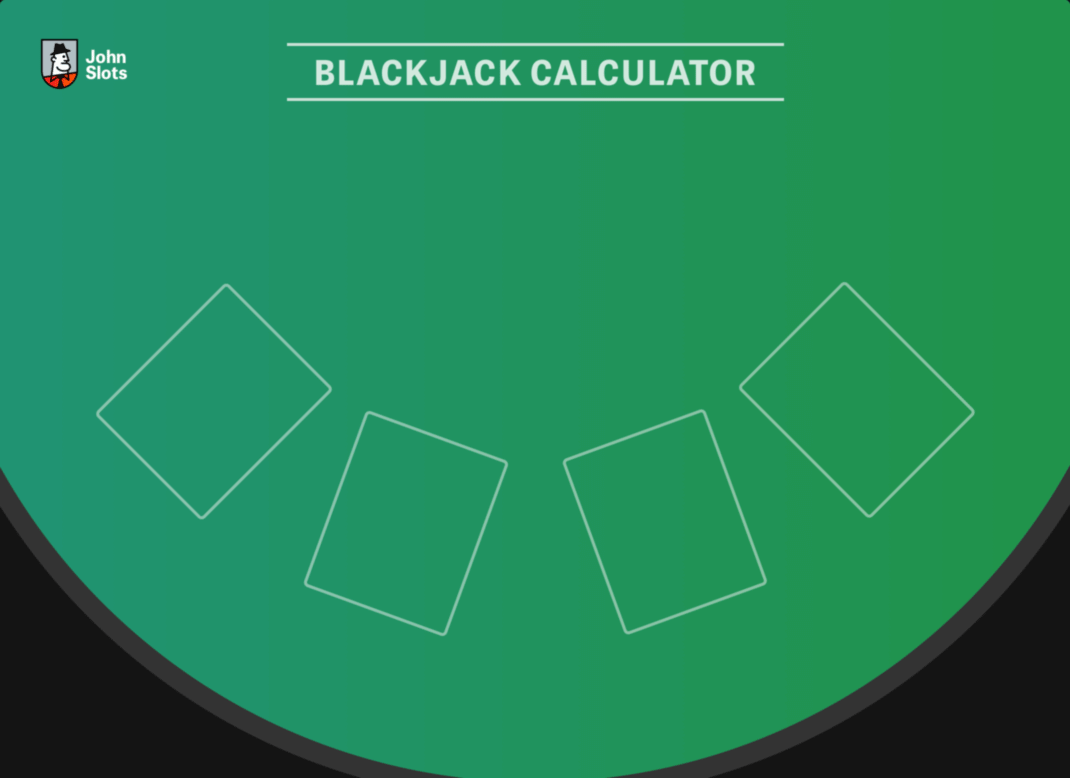
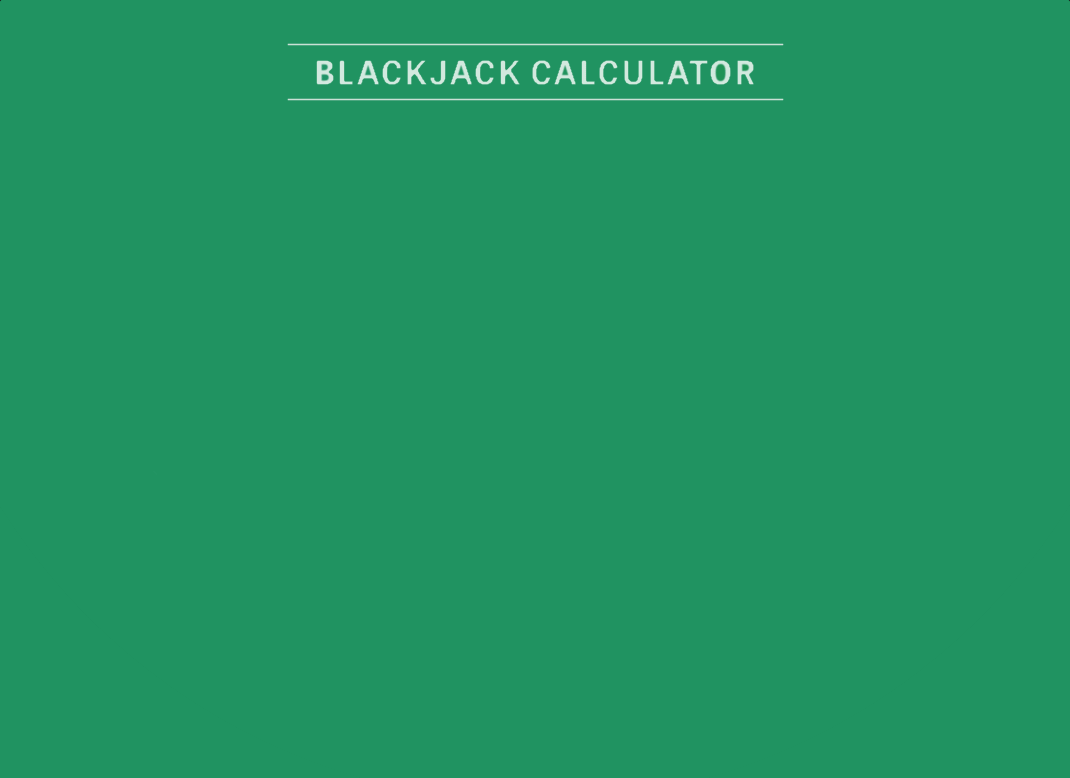
Make TextureManager and Class BlackJack

diff --git a/BlackJack/BlackJack/Game.cpp b/BlackJack/BlackJack/Game.cpp
@@ -1,7 +1,5 @@
 #include"Game.h"
-
-SDL_Texture* tableTex;
-SDL_Rect scrR, destR;
+#include"TextureManager.h"
 
 Game::Game(const char* title, int xpos, int ypos, int width, int height, bool fullscreen)
 {
@@ -21,6 +19,8 @@ Game::Game(const char* title, int xpos, int ypos, int width, int height, bool fu
 			std::cout << "Window created!" << std::endl;
 		}
 
+		
+
 		renderer = SDL_CreateRenderer(window, -1, 0);
 		if (renderer)
 		{
@@ -34,9 +34,8 @@ Game::Game(const char* title, int xpos, int ypos, int width, int height, bool fu
 		isRunning = false;
 	}
 
-	SDL_Surface* tmpSurface = IMG_Load("assets/table.png");
-	tableTex = SDL_CreateTextureFromSurface(renderer, tmpSurface);
-	SDL_FreeSurface(tmpSurface);
+	blackJack = std::make_unique<BlackJack>(renderer);
+	
 }
 Game::~Game() 
 {
@@ -65,17 +64,14 @@ void Game::handleEvents()
 
 void Game::update() 
 {
-	destR.h = 400;
-	destR.w = 600;
+	blackJack->Update();
 }
 
 void Game::render() 
 {
 	SDL_RenderClear(renderer);
 
-	SDL_RenderCopy(renderer, tableTex, NULL, NULL);
+	blackJack->Render();
 
 	SDL_RenderPresent(renderer);
 }
-
-

diff --git a/BlackJack/BlackJack/TextureManager.cpp b/BlackJack/BlackJack/TextureManager.cpp
@@ -1,0 +1,34 @@
+#include"TextureManager.h"
+
+
+SDL_Texture* TextureManager::LoadImage(std::string file, SDL_Renderer* rend)
+{
+	SDL_Surface* loadedImage = nullptr;
+	SDL_Texture* texture = nullptr;
+
+	loadedImage = SDL_LoadBMP(file.c_str());
+	if (loadedImage != nullptr) {
+		texture = SDL_CreateTextureFromSurface(rend, loadedImage);
+		SDL_FreeSurface(loadedImage);
+	}
+	else
+	{
+		loadedImage = IMG_Load(file.c_str());
+
+		if (loadedImage != nullptr)
+		{
+			texture = SDL_CreateTextureFromSurface(rend, loadedImage);
+			SDL_FreeSurface(loadedImage);
+		}
+		else std::cout << SDL_GetError() << std::endl;
+	}
+	return texture;
+}
+
+void TextureManager::ApplySurface(int x, int y, SDL_Texture* tex, SDL_Renderer* rend) {
+	SDL_Rect pos;
+	pos.x = x;
+	pos.y = y;
+	SDL_QueryTexture(tex, NULL, NULL, &pos.w, &pos.h);
+	SDL_RenderCopy(rend, tex, NULL, &pos);
+}

diff --git a/BlackJack/BlackJack/Game.h b/BlackJack/BlackJack/Game.h
@@ -1,10 +1,8 @@
 #ifndef GAME_H
 #define GAME_H
 
-#include<iostream>
-#include"SDL.h"
-#include"SDL_image.h"
-
+#include<memory>
+#include"BlackJack.h"
 
 class Game
 {
@@ -12,6 +10,7 @@ private:
 	bool isRunning;
 	SDL_Window* window;
 	SDL_Renderer* renderer;
+	std::unique_ptr<BlackJack> blackJack;
 
 public:
 	Game(const char* title = "noname", int xpos = SDL_WINDOWPOS_CENTERED, int ypos = SDL_WINDOWPOS_CENTERED, int width = 800, int height = 600, bool fullscreen = false);
@@ -21,7 +20,7 @@ public:
 	void handleEvents();
 	void update();
 	void render();
-	
+
 	bool running() { return isRunning; }
 };
 

diff --git a/BlackJack/BlackJack/BlackJack.cpp b/BlackJack/BlackJack/BlackJack.cpp
@@ -1,0 +1,32 @@
+#include"BlackJack.h"
+#include"TextureManager.h"
+
+BlackJack::BlackJack(SDL_Renderer* rend)
+{
+	renderer = rend;
+
+	background = TextureManager::LoadImage("assets/table.png", rend);
+	image = TextureManager::LoadImage("assets/Cards/Pika9.png", rend);
+}
+
+BlackJack::~BlackJack()
+{
+	SDL_DestroyTexture(background);
+	SDL_DestroyTexture(image);
+
+	std::cout << "Black_Jack Cleaned" << std::endl;
+}
+
+void BlackJack::Update()
+{
+
+}
+
+void BlackJack::Render()
+{
+
+	SDL_RenderCopy(renderer, background, NULL, NULL);
+	
+	TextureManager::ApplySurface(50, 50, image, renderer);
+
+}

diff --git a/BlackJack/BlackJack/BlackJack.h b/BlackJack/BlackJack/BlackJack.h
@@ -1,0 +1,31 @@
+#ifndef BlackJack_H
+#define BlackJack_H
+
+#include<iostream>
+#include<string>
+#include"SDL.h"
+#include"SDL_image.h"
+
+class BlackJack
+{
+private:
+	//enum State {Start, Turn, End} state;
+	//int countOfPlayer;
+
+	SDL_Texture* background, *image;
+	//SDL_Texture;
+	SDL_Renderer* renderer;
+	//Player* player;
+	//Deck* deck;
+
+
+public:
+	BlackJack(SDL_Renderer* rend);
+	~BlackJack();
+
+	void Update();
+	void Render();
+};
+
+
+#endif BlackJack_H

diff --git a/BlackJack/BlackJack/TextureManager.h b/BlackJack/BlackJack/TextureManager.h
@@ -1,0 +1,16 @@
+#ifndef TEXTURE_MANAGER_H
+#define TEXTURE_MANAGER_H
+
+#include"Game.h"
+
+class TextureManager {
+
+private:
+	
+public:
+	static SDL_Texture* LoadImage(std::string file, SDL_Renderer* rend);
+	static void ApplySurface(int x, int y, SDL_Texture* tex, SDL_Renderer* rend);
+
+};
+
+#endif
